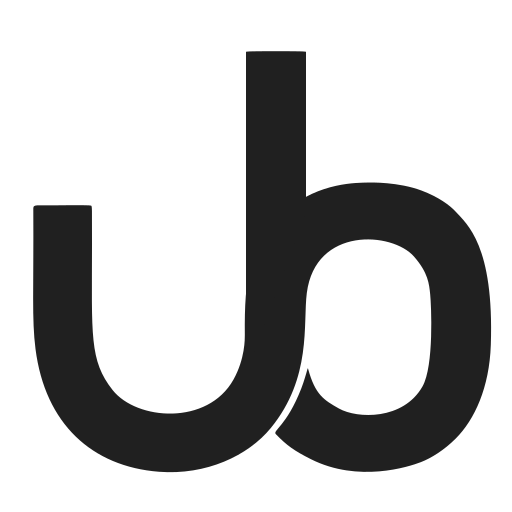
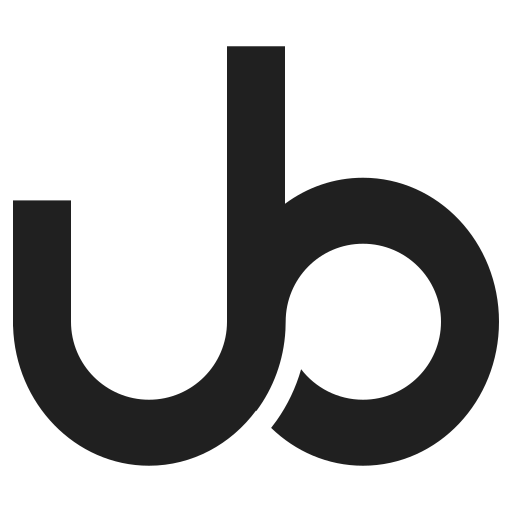
Align OpenHub profile and brand with semantic context

diff --git a/profile/README.md b/profile/README.md
@@ -2,48 +2,32 @@
   <img src="../brand/uns-openhub-wordmark.svg" alt="UNS OpenHub" width="720">
 </p>
 
-Open-source building blocks for industrial Unified Namespace systems.
+Open semantic context infrastructure for systems you control.
 
 **Website:** [www.uns-openhub.com](https://www.uns-openhub.com)
 
-UNS OpenHub turns fragmented industrial signals into a governed, queryable
-data layer. Python, TypeScript and Node-RED applications publish, process,
-archive, and query operational data through a consistent MQTT-based namespace,
-preserving the same context for live and historical values.
+UNS OpenHub connects events, live values, history, metadata, and relationships
+without forcing every source system into the same shape. Its controller keeps
+stable entity identity separate from namespace placement, makes lifecycle
+relationships queryable, and installs domain semantics on one generic core.
 
-The public repositories in this organization are designed to cover distinct
-roles in a complete flow. Visit the website for the project map, architecture,
-and current roadmap.
+Manufacturing and Gaming are the current concrete domain profiles. The public
+hot-rolling demo is one end-to-end example of the model, not the boundary of
+the platform.
 
-## Choose your SDK
+> The namespace shows where an object is. The graph explains how it became
+> what it is.
 
-| Language | Package | Use it for |
-| --- | --- | --- |
-| TypeScript | [`@uns-kit/*`](https://www.npmjs.com/org/uns-kit) | Typed UNS applications, runtime services, metadata, and project scaffolding |
-| Python | [`uns-kit`](https://pypi.org/project/uns-kit/) | Python UNS MQTT clients, runtime services, OpenHub access, and project scaffolding |
+## Start with the Runtime
 
-Both SDKs are developed in the public [`uns-kit`](https://github.com/uns-openhub/uns-kit)
-repository. The Python source and documentation live in
-[`packages/uns-py`](https://github.com/uns-openhub/uns-kit/tree/master/packages/uns-py).
+UNS OpenHub Runtime brings the controller, local infrastructure,
+configuration, and lifecycle tooling together on infrastructure you control.
+Its core data plane combines the controller with open-source PostgreSQL,
+Eclipse Mosquitto, QuestDB, and Caddy and requires no managed cloud service.
 
-## Start here
-
-### Private preview: UNS OpenHub Runtime
-
-UNS OpenHub Runtime is the easiest way to run the complete integrated stack on
-infrastructure you control. Its core data plane combines the controller with
-open-source PostgreSQL, Eclipse Mosquitto, QuestDB, and Caddy infrastructure and
-requires no managed cloud service. Typed secret
-references can resolve from environment variables or optionally from Infisical,
-including Machine Identity-backed bootstrap. The add-on catalog can combine
-compatible public GitHub add-ons with approved services from configured GitHub
-or Azure DevOps sources. Runtime also validates service configuration against
-packaged schemas, retains per-instance snapshots, and preflights matching
-versions and configuration before starting workloads on another controller.
-
-The SDKs, supporting services, reference application, and bootstrap are public
-and available independently. The integrated Runtime is currently distributed
-through a private preview.
+The SDKs, supporting services, reference application, and bootstrap are
+public. The complete integrated Runtime is currently distributed through a
+private preview.
 
 Users with preview access can install the public, version-matched bootstrap on
 macOS or Linux:
@@ -56,30 +40,44 @@ curl -fsSL \
 "$HOME/.local/bin/uns-bootstrap" install
 ```
 
-The bootstrap verifies the matching download and starts the setup wizard.
-Docker or Podman with Compose is required. Complete installation and operating
-instructions are in the Runtime `README.md` included with the downloaded
-bundle.
+Docker or Podman with Compose is required. During the preview, Runtime access
+and private controller-image access are separate. Complete version-matched
+installation and operating instructions are included in the downloaded
+Runtime bundle.
 
 [Open Runtime documentation](https://www.uns-openhub.com/docs/).
-[Review the public bootstrap repository](https://github.com/uns-openhub/uns-openhub-bootstrap).
-Need preview access?
-[Join the email-only access list](https://www.uns-openhub.com/#early-access).
+[Review the public bootstrap](https://github.com/uns-openhub/uns-openhub-bootstrap).
+[Request preview access](https://www.uns-openhub.com/#early-access).
 
-The controller remains a component of the Runtime architecture; the planned
-public-facing distribution is `uns-openhub-runtime`, rather than a standalone
-`uns-openhub-controller` release.
+## Choose your SDK
+
+| Language | Package | Use it for |
+| --- | --- | --- |
+| TypeScript | [`@uns-kit/*`](https://www.npmjs.com/org/uns-kit) | Typed UNS applications, runtime services, metadata, and project scaffolding |
+| Python | [`uns-kit`](https://pypi.org/project/uns-kit/) | Python UNS MQTT clients, runtime services, OpenHub access, and project scaffolding |
+
+Both SDKs are developed in the public [`uns-kit`](https://github.com/uns-openhub/uns-kit)
+repository. The Python source and documentation live in
+[`packages/uns-py`](https://github.com/uns-openhub/uns-kit/tree/master/packages/uns-py).
+
+## Public components
 
 | Repository | Purpose |
 | --- | --- |
-| [`uns-kit`](https://github.com/uns-openhub/uns-kit) | TypeScript and Python toolkits, runtime libraries, and project scaffolding for UNS applications |
-| [`rtt-demo-app`](https://github.com/uns-openhub/rtt-demo-app) | Hot rolling mill simulator and end-to-end example built with `@uns-kit` |
+| [`uns-kit`](https://github.com/uns-openhub/uns-kit) | TypeScript and Python toolkits, runtime libraries, and project scaffolding |
+| [`rtt-demo-app`](https://github.com/uns-openhub/rtt-demo-app) | Seeded hot-rolling simulator and end-to-end reference application |
 | [`uns-archiver`](https://github.com/uns-openhub/uns-archiver) | QuestDB archiver for UNS data and table packets |
 | [`uns-api-global`](https://github.com/uns-openhub/uns-api-global) | Authenticated REST API for current and historical UNS data |
 | [`node-red-contrib-uns`](https://github.com/uns-openhub/node-red-contrib-uns) | Node-RED nodes for subscribing to and publishing UNS messages |
 | [`uns-openhub-bootstrap`](https://github.com/uns-openhub/uns-openhub-bootstrap) | Minimal verified installer for version-matched Runtime releases |
 
-## How the pieces fit
+The integrated controller additionally provides stable entity identity,
+namespace placement history, typed relationships, solution profiles,
+declarative domain packs, provider add-ons, schema and data-catalog tooling,
+automations, service lifecycle supervision, configuration snapshots, and
+cluster-aware workload placement.
+
+## How the public pieces fit
 
 ```text
 TypeScript, Python and Node-RED producers
@@ -92,35 +90,36 @@ TypeScript, Python and Node-RED producers
                +----------> UNS Archiver ----> QuestDB ----> UNS API Global
 ```
 
-Each public component repository documents its own prerequisites,
-configuration, and verification commands. For a first look at the open
-components, use `rtt-demo-app` as the example application and `uns-kit` as the
-TypeScript and Python library reference.
+Each public repository documents its own prerequisites, configuration, and
+verification commands. Use `rtt-demo-app` for a first end-to-end example and
+`uns-kit` as the TypeScript and Python SDK reference.
 
 ## Roadmap
 
-The open stack is planned to expand with:
+The public stack is planned to expand with:
 
-- `uns-openhub-runtime` — currently a private preview and planned as the deployable public entry point that connects the controller, local infrastructure, configuration, and lifecycle tooling.
-- `uns-bridge-mqtt` — an external MQTT mapping bridge for bringing existing third-party topic structures and payloads into a governed UNS.
+- `uns-openhub-runtime` — the current private preview and planned deployable
+  public entry point.
+- `uns-bridge-mqtt` — mapping existing third-party MQTT topics and payloads
+  into governed OpenHub context.
 - `uns-bridge-opcua` — mapping OPC UA nodes and values into the same model.
 
-Assistant capabilities are planned for a later phase. Current private
-implementation work explores cited operational guidance over live and
-historical signals, operator-reviewed schema proposals, validated TypeScript
-and Python service-bundle generation, and disabled-by-default local
-MCP-compatible tool access with scoped tokens and auditing. Public scope and
-delivery are still under review. The current private implementation uses
-OpenAI; provider and on-prem inference alternatives are being evaluated.
+Assistant capabilities are planned for a later phase as a governed consumer
+of platform context. Current private work explores cited operational guidance,
+operator-reviewed schema proposals, validated TypeScript and Python service
+generation, and disabled-by-default MCP-compatible local tool access. It
+currently uses OpenAI; provider and on-prem inference alternatives are being
+evaluated.
 
-Follow the latest overview at [www.uns-openhub.com](https://www.uns-openhub.com/#roadmap).
+Follow the current overview at
+[www.uns-openhub.com](https://www.uns-openhub.com/#roadmap).
 
 ## Participate
 
 - Read the shared [contribution guide](https://github.com/uns-openhub/.github/blob/main/CONTRIBUTING.md).
 - Report security issues privately as described in the
   [security policy](https://github.com/uns-openhub/.github/blob/main/SECURITY.md).
-- Use the issue tracker of the affected repository for bugs and focused feature
+- Use the affected repository's issue tracker for bugs and focused feature
   requests.
 
 Unless a repository says otherwise, public source is licensed under the MIT

diff --git a/brand/README.md b/brand/README.md
@@ -1,14 +1,14 @@
 # UNS OpenHub logo assets
 
-The final symbol combines the continuous `u` gesture with the rounded OpenHub
-bowl and a tall Hub stem. The SVG files in this directory are the optimized,
+The current mark combines a continuous `u` with the rounded OpenHub bowl and
+tall hub stem. The SVG files in this directory are the optimized,
 production-safe sources.
 
 ## Files
 
 - `uns-openhub-mark.svg` — primary dark mark on a transparent canvas
 - `uns-openhub-mark-light.svg` — light mark for dark surfaces
-- `uns-openhub-icon.svg` — square transparent icon with safe spacing
+- `uns-openhub-icon.svg` — square transparent icon
 - `uns-openhub-icon-on-dark.svg` — mint icon on the website dark background
 - `uns-openhub-wordmark.svg` — horizontal mark with editable wordmark text
 - `png/` — raster exports at common application and web sizes
@@ -20,10 +20,8 @@ production-safe sources.
 - Mint accent: `#9CF7C6`
 - Light: `#F4F7F5`
 
-Keep at least half the width of the vertical stem as clear space around the
-mark. Use the standalone mark at 24 px or larger. At 16 px, use the square
-dark-background icon so the `uh` silhouette remains legible; the open `o`
-detail is intentionally secondary at that size.
+Keep clear space around the mark and use the dark-background icon when a small
+square application icon needs stronger contrast.
 
 The wordmark text remains editable and uses Helvetica Neue with Arial as a
 fallback. Convert the text to curves in the final design application when a
